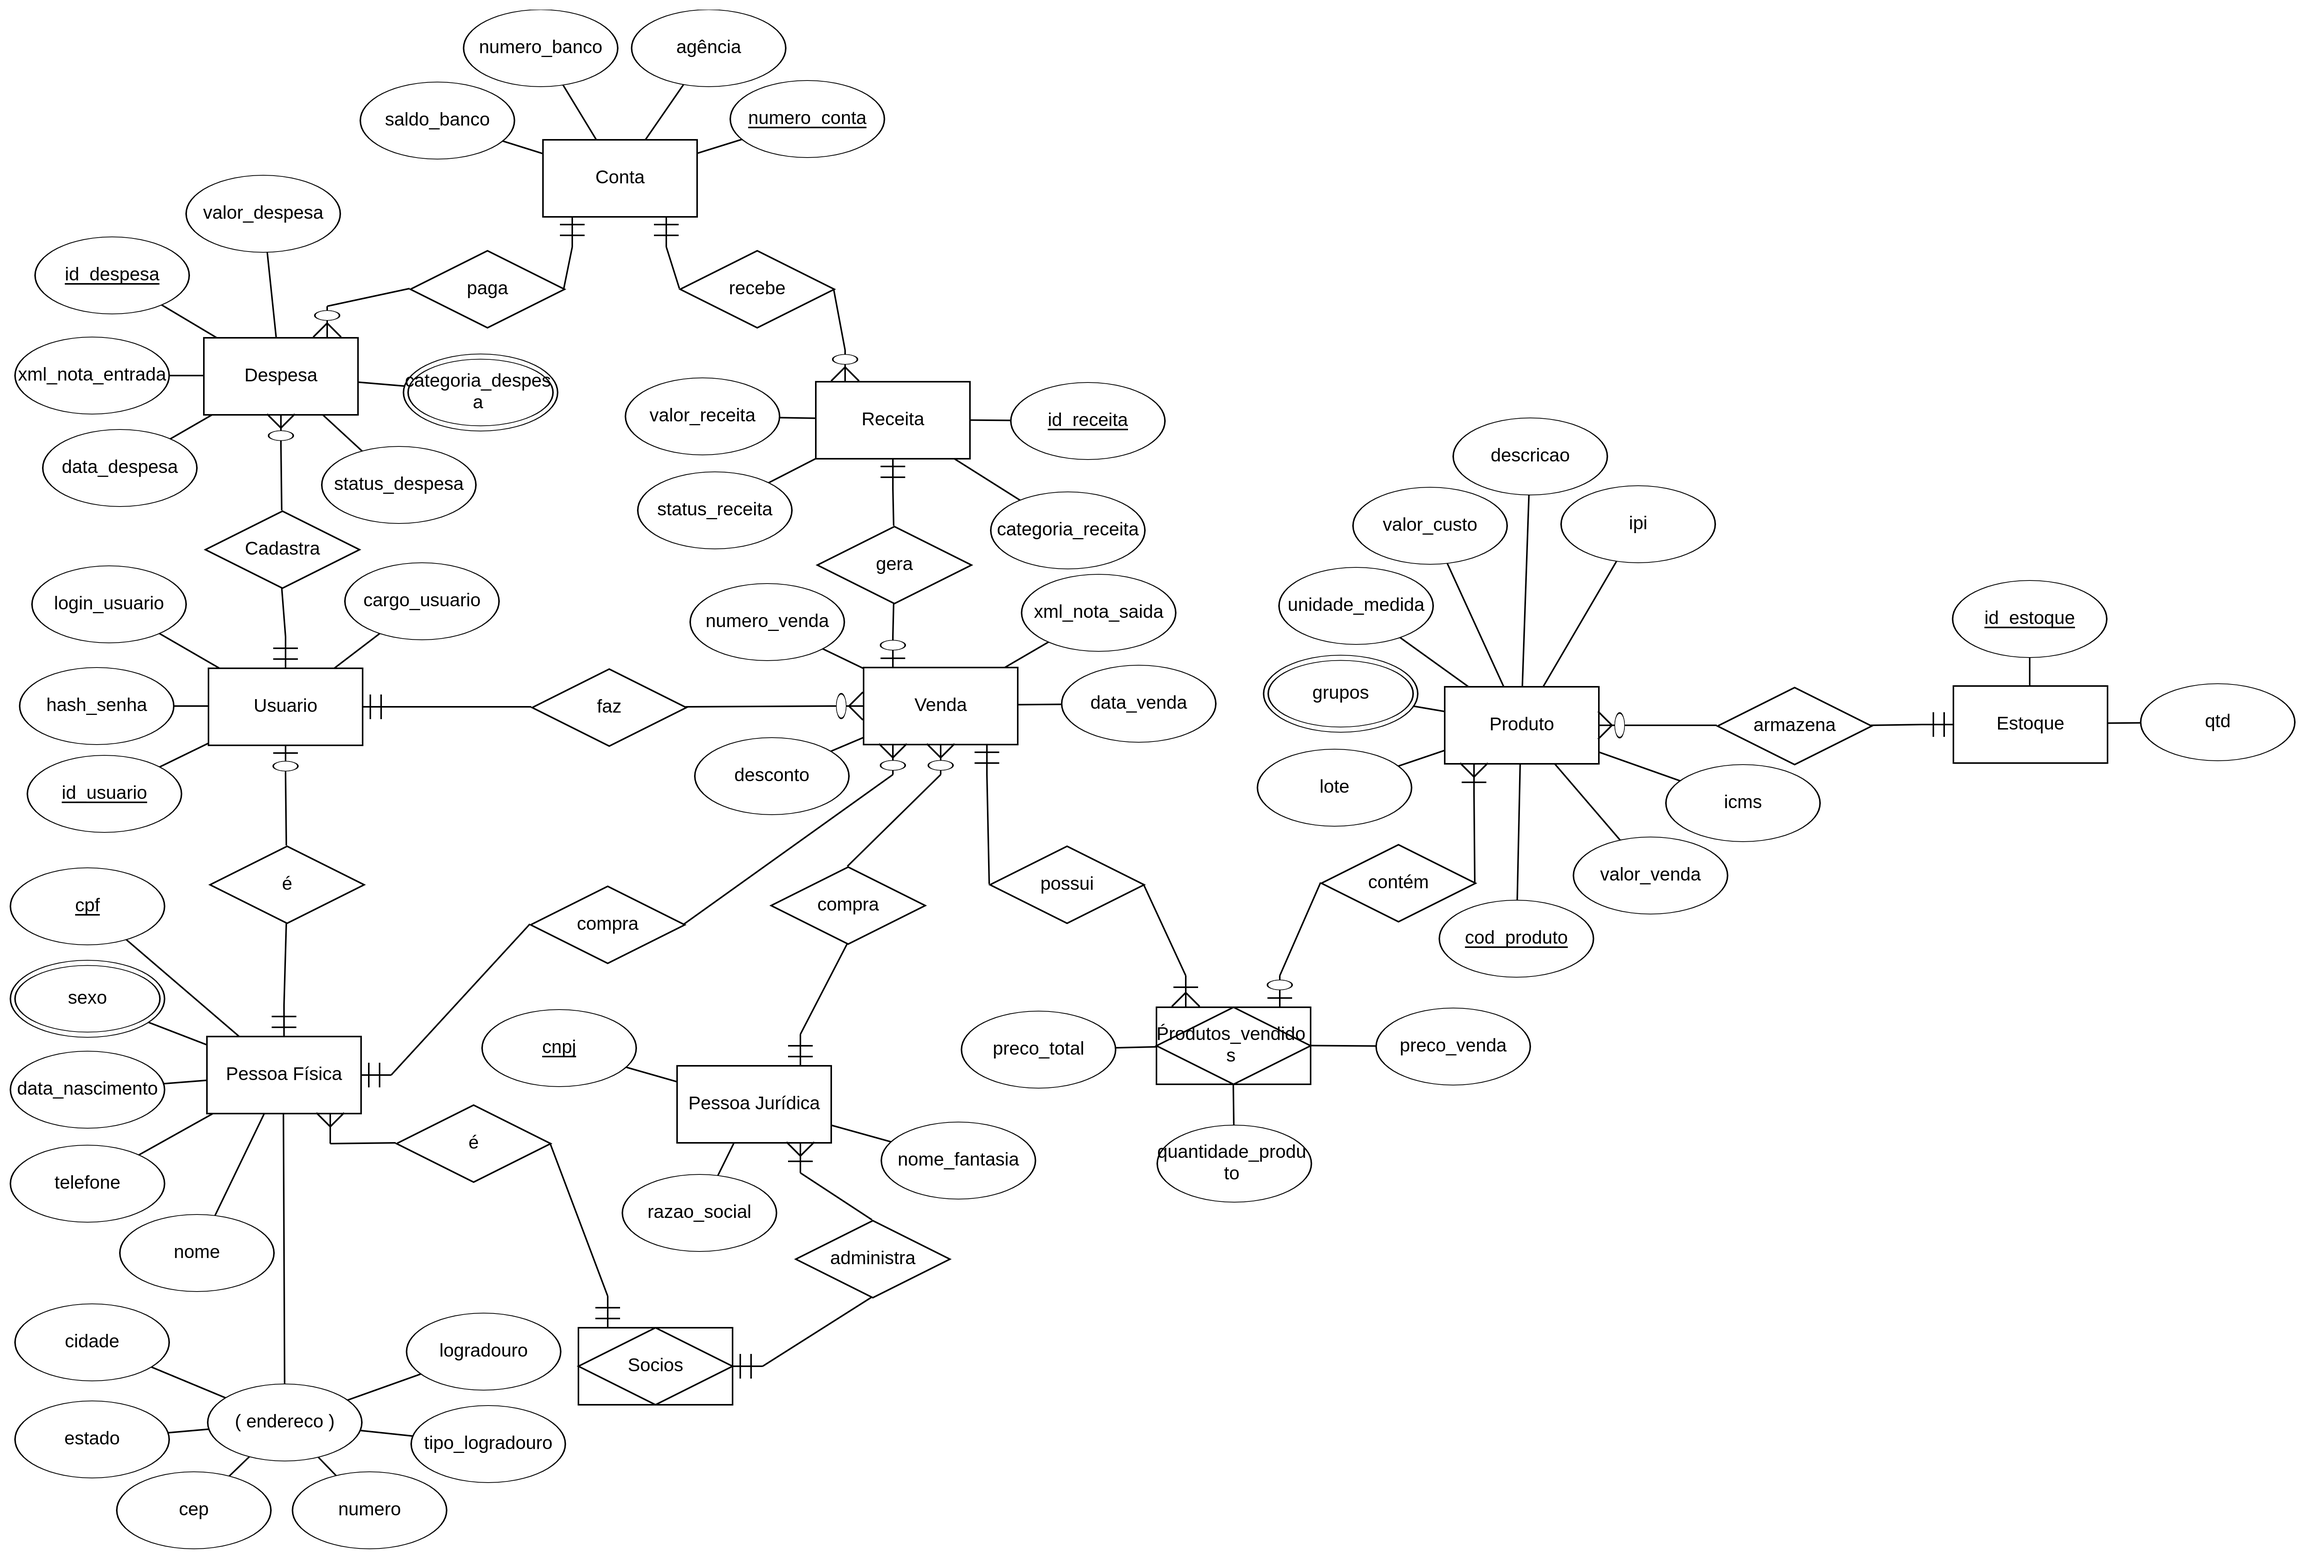
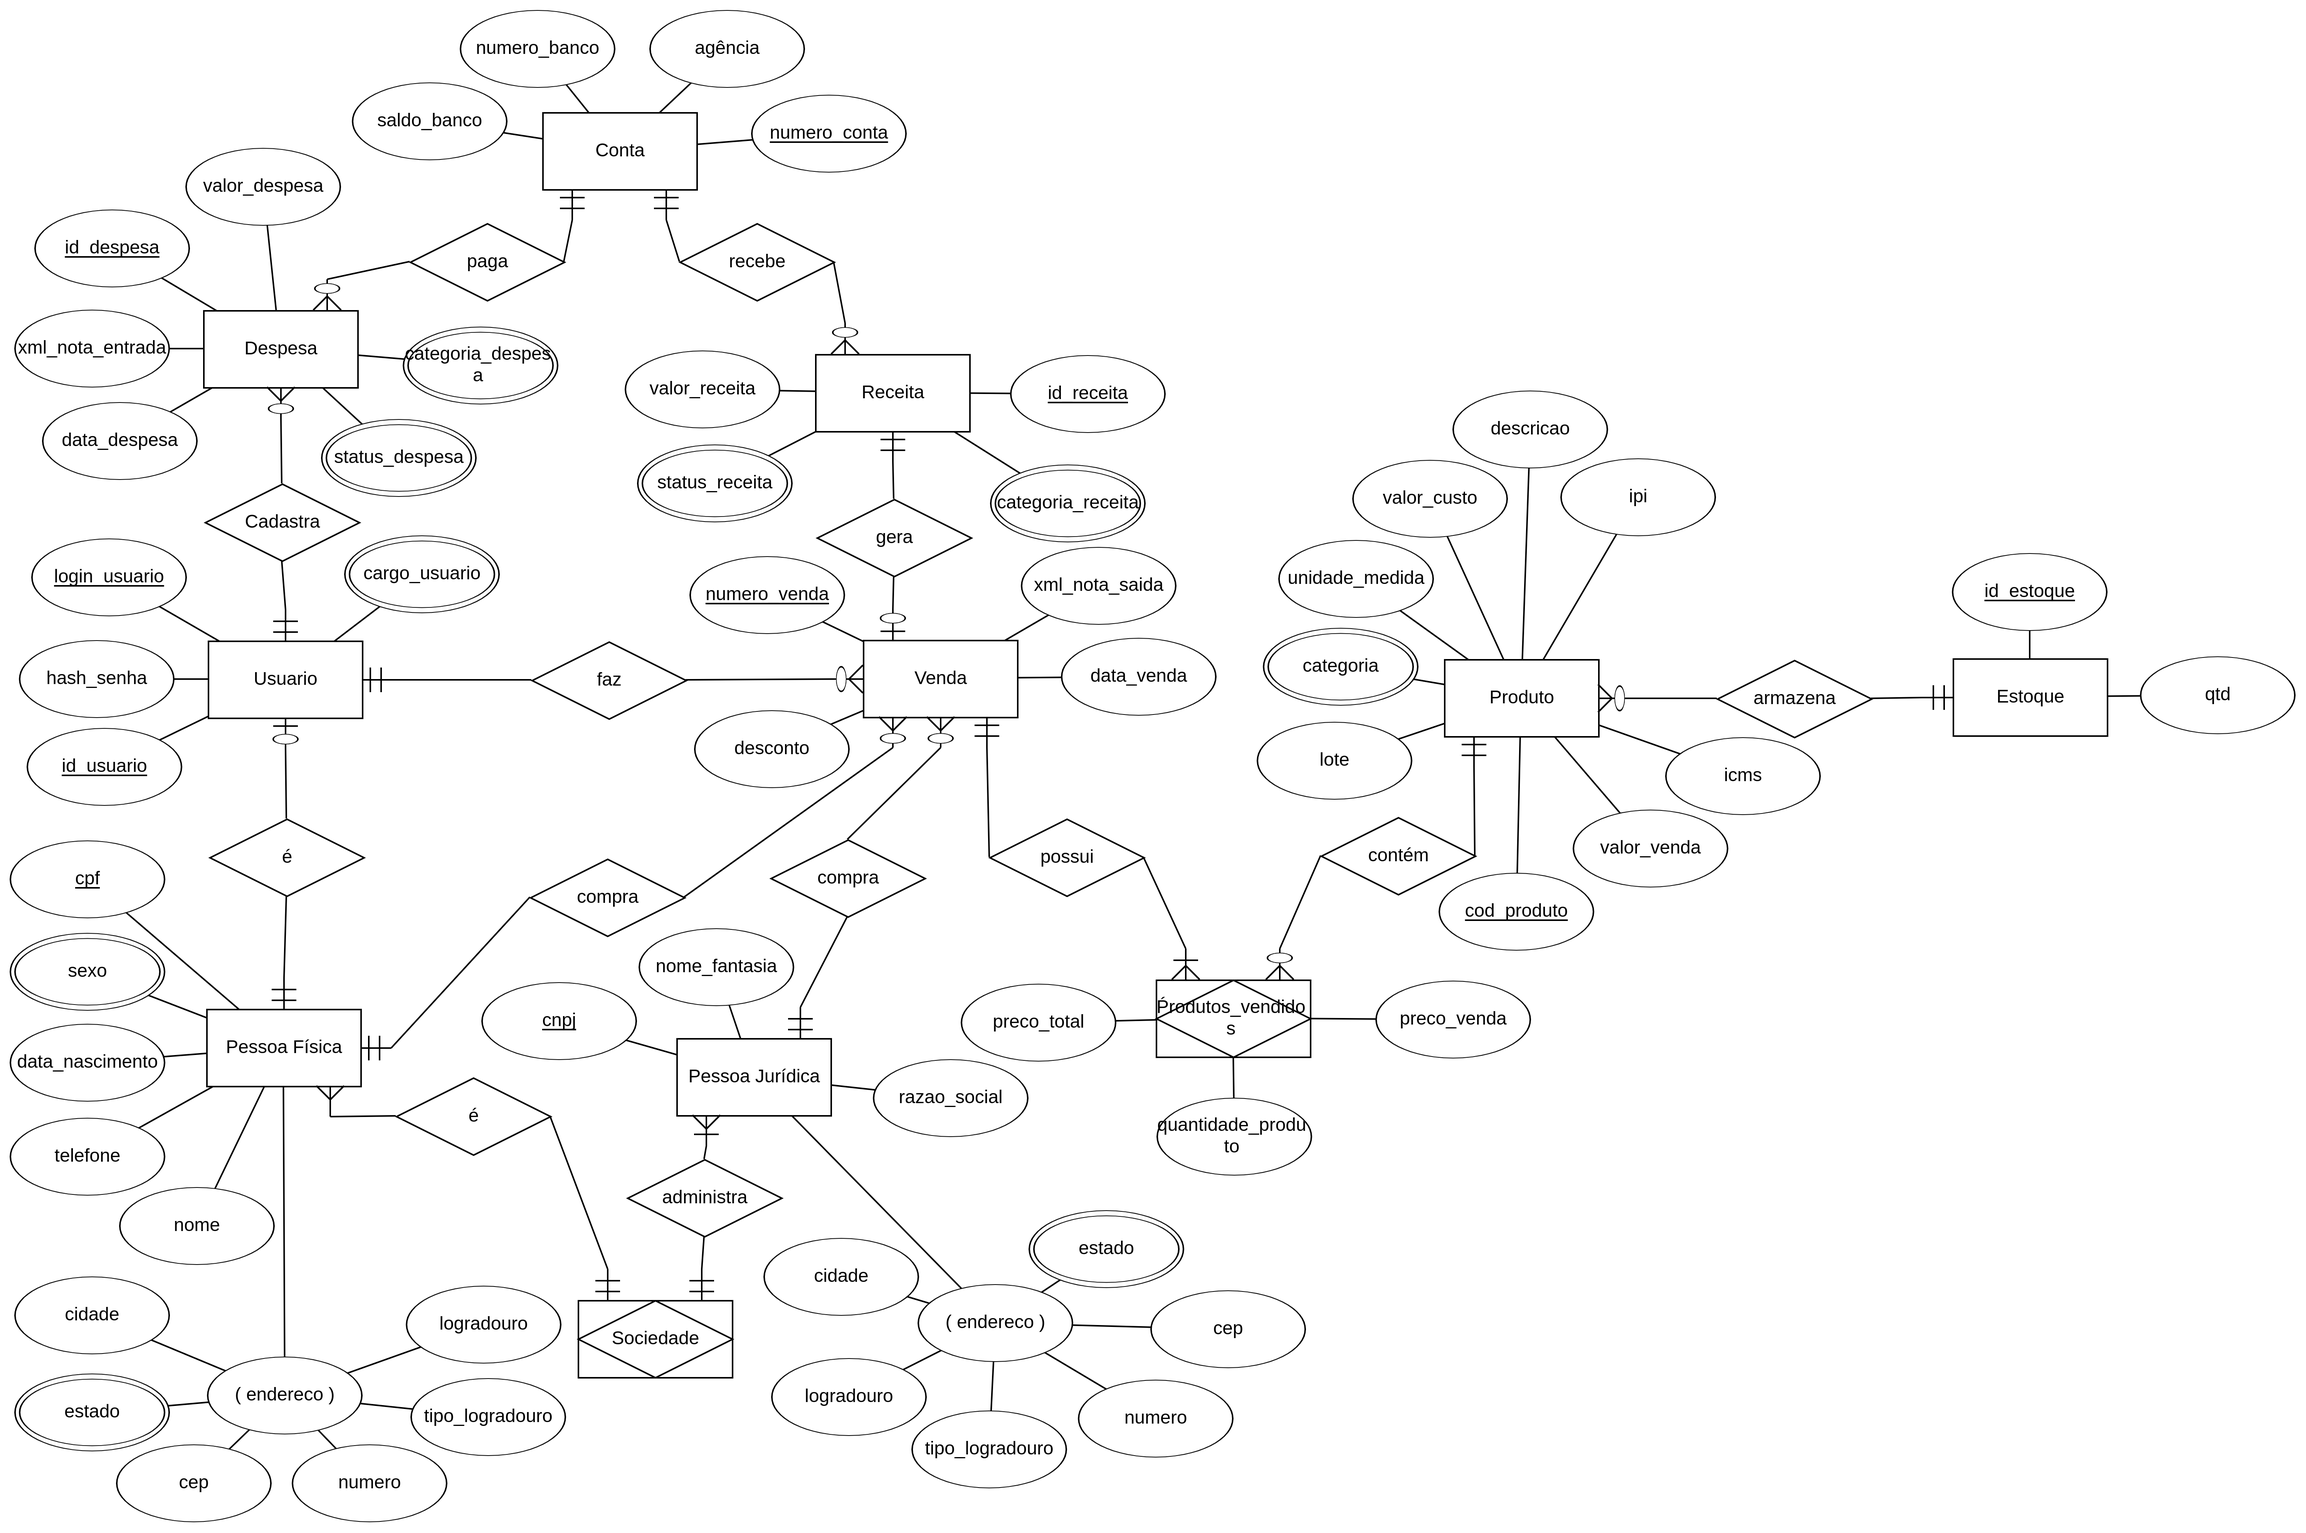
Alteração do modelo conceitual e adição do modelo físico

diff --git a/README.MD b/README.MD
@@ -24,4 +24,4 @@ O modelo de software escolhido foi o de gerenciamento financeiro e de vendas de 
 
 #### Andamento do Projeto Prático:
 - [x] Diagrama Conceitual do Banco de Dados
-- [ ] Diagrama Físico do Banco de Dados
+- [x] Diagrama Físico do Banco de Dados
